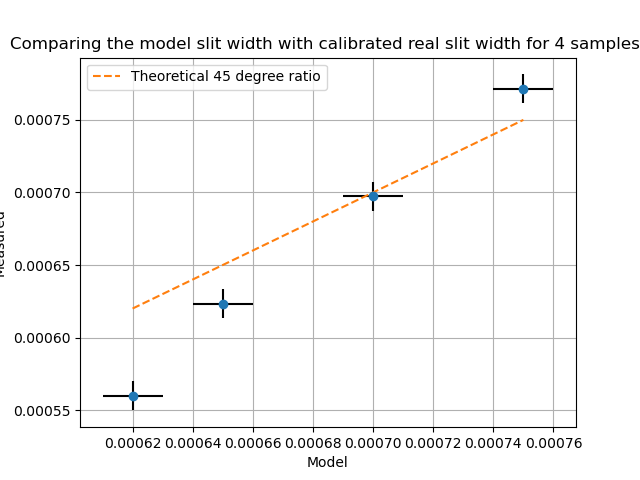
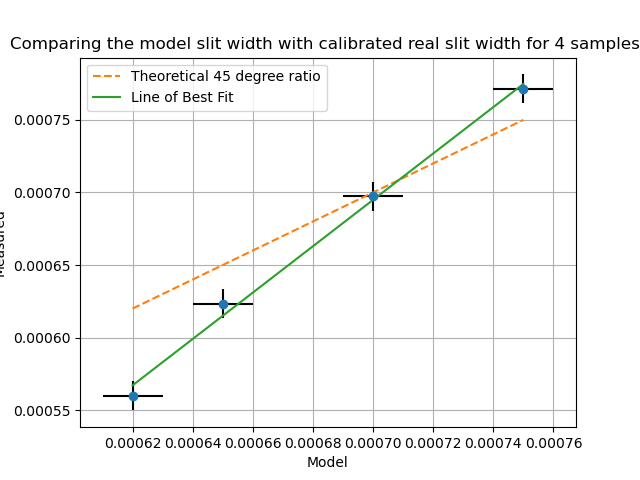
Adds Line of Best Fit (#5)

diff --git a/main.py b/main.py
@@ -135,10 +135,23 @@ def main() -> None:
 
     plot.plotErrorGraph(np.array(modelSlitWidths), np.array(realSlitWidths), xerr=params.slitUncertainty, yerr=params.slitUncertainty, label="")
     plot.plotGraph(np.array(modelSlitWidths), np.array(modelSlitWidths), label="Theoretical 45 degree ratio", line="--", markers="None")
-    
+     
+    # Finding line of best fit and creating a polynomial object for it
+    coeffs = np.polyfit(np.array(modelSlitWidths), np.array(realSlitWidths), 1)
+    fitLine = np.poly1d(coeffs)
+
+    # Plotting the line of best fit
+    xFit = np.linspace(min(modelSlitWidths), max(modelSlitWidths), 100)
+    yFit = fitLine(xFit)
+    plot.plotGraph(xFit, yFit, label = "Line of Best Fit", line= "-", markers = "None")
+
     plot.configureGraph("Comparing the model slit width with calibrated real slit width for %d samples." % len(samples), "Model", "Measured", True)
     # plot.setGraphLimits(modelSlitWidths[-1], realSlitWidths[-1])
     # plot.setGraphTicks(modelSlitWidths, realSlitWidths)
+
+    # Printing the final results
+    print("The slope of the line of best fit is:", coeffs[0])
+    print("The intercept of the line of best fit is: %e"%(coeffs[1],))
     
     plot.displayGraph("Comparing theoretical with measured diffraction minima values for slit width = %e" % slitWidth, save=True)
 
